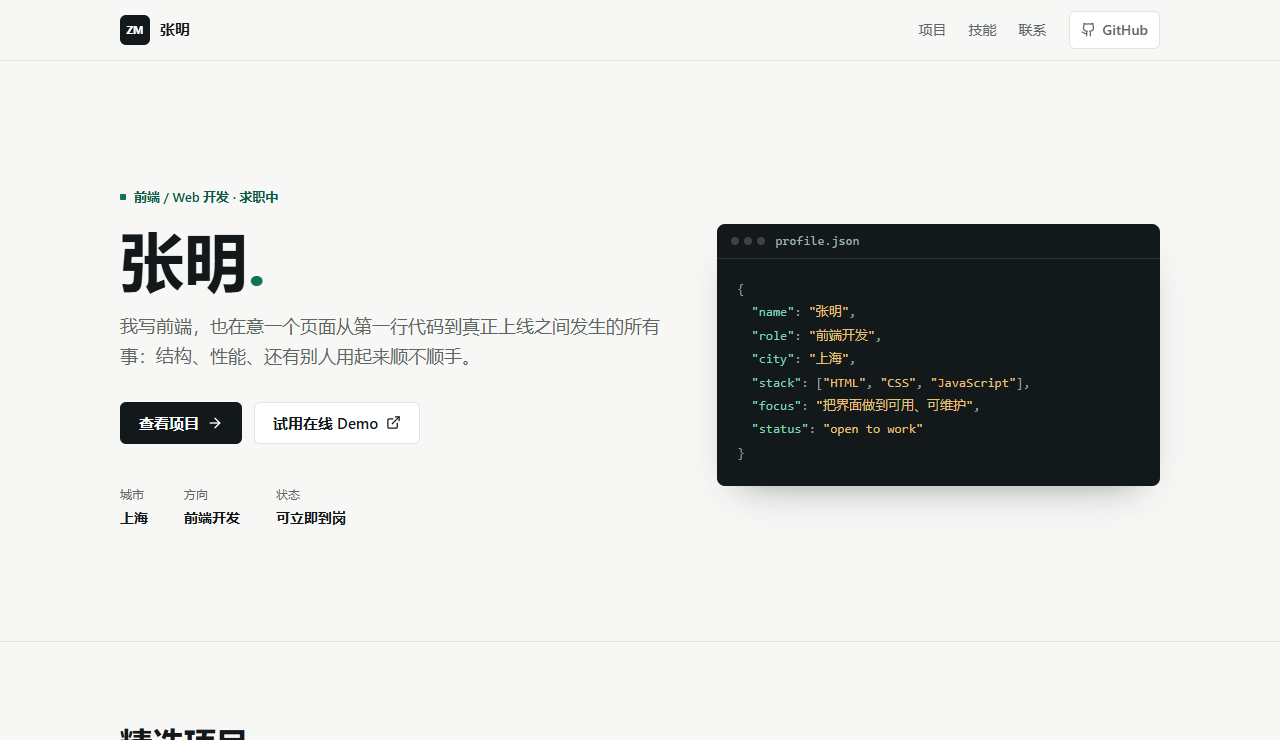
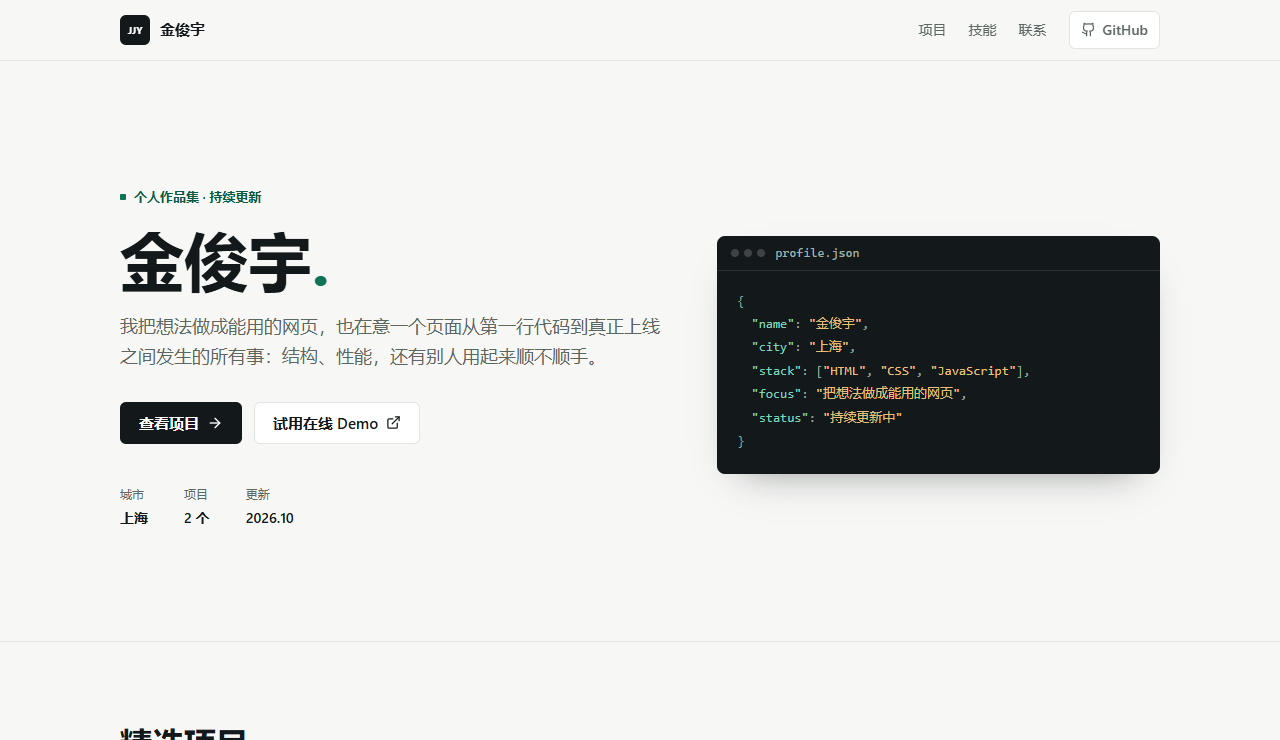
chore: replace placeholders with personal info, add live URL

diff --git a/index.html b/index.html
@@ -3,10 +3,10 @@
 <head>
   <meta charset="utf-8">
   <meta name="viewport" content="width=device-width, initial-scale=1">
-  <title>张明 · 前端开发作品集</title>
-  <meta name="description" content="张明的个人作品集：原生 JavaScript 小应用与前端实践，记录一个页面从想法到上线的过程。">
+  <title>金俊宇 · 作品集</title>
+  <meta name="description" content="金俊宇的个人作品集：原生 JavaScript 小应用与前端实践，记录一个页面从想法到上线的过程。">
   <meta name="theme-color" content="#f7f8f6">
-  <meta property="og:title" content="张明 · 前端开发作品集">
+  <meta property="og:title" content="金俊宇 · 作品集">
   <meta property="og:description" content="原生 JavaScript 小应用与前端实践。">
   <meta property="og:type" content="website">
   <link rel="icon" href="assets/favicon.svg" type="image/svg+xml">
@@ -15,18 +15,17 @@
 <body>
   <a class="skip-link" href="#main">跳到主要内容</a>
 
-  <!-- 头部：改成你的名字和 GitHub 地址 -->
   <header class="site-header">
     <div class="wrap header-inner">
       <a class="brand" href="index.html">
-        <span class="brand-mark" aria-hidden="true">ZM</span>
-        <span class="brand-name">张明</span>
+        <span class="brand-mark" aria-hidden="true">JJY</span>
+        <span class="brand-name">金俊宇</span>
       </a>
       <nav class="nav" aria-label="主导航">
         <a href="#projects">项目</a>
         <a href="#skills">技能</a>
         <a href="#contact">联系</a>
-        <a class="nav-gh" href="https://github.com/your-username" target="_blank" rel="noopener">
+        <a class="nav-gh" href="https://github.com/Milky-Rivers" target="_blank" rel="noopener">
           <svg width="15" height="15" viewBox="0 0 24 24" fill="none" stroke="currentColor" stroke-width="2" stroke-linecap="round" stroke-linejoin="round" aria-hidden="true">
             <path d="M15 22v-4a4.8 4.8 0 0 0-1-3.5c3 0 6-2 6-5.5.08-1.25-.27-2.48-1-3.5.28-1.15.28-2.35 0-3.5 0 0-1 0-3 1.5-2.64-.5-5.36-.5-8 0C6 2 5 2 5 2c-.3 1.15-.3 2.35 0 3.5A5.4 5.4 0 0 0 4 9c0 3.5 3 5.5 6 5.5-.39.49-.68 1.05-.85 1.65-.17.6-.22 1.23-.15 1.85v4"/>
             <path d="M9 18c-4.51 2-5-2-7-2"/>
@@ -41,9 +40,9 @@
     <section class="hero">
       <div class="wrap hero-grid">
         <div class="hero-copy">
-          <p class="eyebrow">前端 / Web 开发 · 求职中</p>
-          <h1>张明<span class="dot">.</span></h1>
-          <p class="lede">我写前端，也在意一个页面从第一行代码到真正上线之间发生的所有事：结构、性能、还有别人用起来顺不顺手。</p>
+          <p class="eyebrow">个人作品集 · 持续更新</p>
+          <h1>金俊宇<span class="dot">.</span></h1>
+          <p class="lede">我把想法做成能用的网页，也在意一个页面从第一行代码到真正上线之间发生的所有事：结构、性能，还有别人用起来顺不顺手。</p>
           <div class="actions">
             <a class="btn btn-primary" href="#projects">
               查看项目
@@ -56,8 +55,8 @@
           </div>
           <dl class="quick-facts">
             <div><dt>城市</dt><dd>上海</dd></div>
-            <div><dt>方向</dt><dd>前端开发</dd></div>
-            <div><dt>状态</dt><dd>可立即到岗</dd></div>
+            <div><dt>项目</dt><dd>2 个</dd></div>
+            <div><dt>更新</dt><dd>2026.10</dd></div>
           </dl>
         </div>
 
@@ -67,12 +66,11 @@
             <span>profile.json</span>
           </div>
           <pre><code><span class="p">{</span>
-  <span class="k">"name"</span><span class="p">:</span> <span class="s">"张明"</span><span class="p">,</span>
-  <span class="k">"role"</span><span class="p">:</span> <span class="s">"前端开发"</span><span class="p">,</span>
+  <span class="k">"name"</span><span class="p">:</span> <span class="s">"金俊宇"</span><span class="p">,</span>
   <span class="k">"city"</span><span class="p">:</span> <span class="s">"上海"</span><span class="p">,</span>
   <span class="k">"stack"</span><span class="p">:</span> <span class="p">[</span><span class="s">"HTML"</span><span class="p">,</span> <span class="s">"CSS"</span><span class="p">,</span> <span class="s">"JavaScript"</span><span class="p">],</span>
-  <span class="k">"focus"</span><span class="p">:</span> <span class="s">"把界面做到可用、可维护"</span><span class="p">,</span>
-  <span class="k">"status"</span><span class="p">:</span> <span class="s">"open to work"</span>
+  <span class="k">"focus"</span><span class="p">:</span> <span class="s">"把想法做成能用的网页"</span><span class="p">,</span>
+  <span class="k">"status"</span><span class="p">:</span> <span class="s">"持续更新中"</span>
 <span class="p">}</span></code></pre>
         </aside>
       </div>
@@ -88,7 +86,7 @@
         <div class="project-grid">
           <article class="project">
             <a class="thumb" href="demo.html" aria-label="打开任务清单 Demo">
-              <img src="assets/demo-shot.png" alt="任务清单 Demo 的界面截图" width="1280" height="800" loading="lazy">
+              <img src="assets/demo-shot.png" alt="任务清单 Demo 的界面截图" width="1280" height="800">
             </a>
             <div class="project-body">
               <h3>任务清单 <span class="badge">可直接试用</span></h3>
@@ -98,7 +96,7 @@
                 <a href="demo.html">打开 Demo
                   <svg width="14" height="14" viewBox="0 0 24 24" fill="none" stroke="currentColor" stroke-width="2" stroke-linecap="round" stroke-linejoin="round" aria-hidden="true"><path d="M5 12h14"/><path d="m12 5 7 7-7 7"/></svg>
                 </a>
-                <a href="https://github.com/your-username/my-portfolio" target="_blank" rel="noopener">源码</a>
+                <a href="https://github.com/Milky-Rivers/my-portfolio" target="_blank" rel="noopener">源码</a>
               </div>
             </div>
           </article>
@@ -115,7 +113,7 @@
                 <a href="index.html">打开首页
                   <svg width="14" height="14" viewBox="0 0 24 24" fill="none" stroke="currentColor" stroke-width="2" stroke-linecap="round" stroke-linejoin="round" aria-hidden="true"><path d="M5 12h14"/><path d="m12 5 7 7-7 7"/></svg>
                 </a>
-                <a href="https://github.com/your-username/my-portfolio" target="_blank" rel="noopener">源码</a>
+                <a href="https://github.com/Milky-Rivers/my-portfolio" target="_blank" rel="noopener">源码</a>
               </div>
             </div>
           </article>
@@ -165,19 +163,19 @@
       <div class="wrap contact-grid">
         <div>
           <h2>聊聊？</h2>
-          <p>如果你在找一名愿意把细节做好的开发者，欢迎发邮件。</p>
+          <p>项目都在 GitHub 上，欢迎来看代码，或者直接开个 Issue。</p>
           <div class="email-row">
-            <a class="email" href="mailto:zm@example.com">zm@example.com</a>
-            <button class="copy-btn" id="copyEmail" type="button" data-email="zm@example.com">
+            <a class="email" href="https://github.com/Milky-Rivers" target="_blank" rel="noopener">github.com/Milky-Rivers</a>
+            <button class="copy-btn" id="copyEmail" type="button" data-copy="https://github.com/Milky-Rivers">
               <svg width="15" height="15" viewBox="0 0 24 24" fill="none" stroke="currentColor" stroke-width="2" stroke-linecap="round" stroke-linejoin="round" aria-hidden="true"><rect width="14" height="14" x="8" y="8" rx="2"/><path d="M4 16c-1.1 0-2-.9-2-2V4c0-1.1.9-2 2-2h10c1.1 0 2 .9 2 2"/></svg>
               <span>复制</span>
             </button>
           </div>
         </div>
         <ul class="contact-list">
-          <li><span>GitHub</span><a href="https://github.com/your-username" target="_blank" rel="noopener">github.com/your-username</a></li>
-          <li><span>微信</span><em>加我请先发邮件</em></li>
-          <li><span>位置</span><em>上海 · 可远程</em></li>
+          <li><span>GitHub</span><a href="https://github.com/Milky-Rivers" target="_blank" rel="noopener">github.com/Milky-Rivers</a></li>
+          <li><span>位置</span><em>上海</em></li>
+          <li><span>状态</span><em>持续更新中</em></li>
         </ul>
       </div>
     </section>
@@ -185,7 +183,7 @@
 
   <footer class="site-footer">
     <div class="wrap footer-inner">
-      <p>© <span id="year">2026</span> 张明</p>
+      <p>© <span id="year">2026</span> 金俊宇</p>
       <p>原生 HTML / CSS / JavaScript 写成，托管在 GitHub Pages</p>
     </div>
   </footer>

diff --git a/demo.html b/demo.html
@@ -3,7 +3,7 @@
 <head>
   <meta charset="utf-8">
   <meta name="viewport" content="width=device-width, initial-scale=1">
-  <title>任务清单 · 张明的作品集</title>
+  <title>任务清单 · 金俊宇的作品集</title>
   <meta name="description" content="原生 JavaScript 实现的任务清单：添加、勾选、筛选、删除，数据保存在浏览器本地。">
   <meta name="theme-color" content="#f7f8f6">
   <link rel="icon" href="assets/favicon.svg" type="image/svg+xml">
@@ -15,13 +15,13 @@
   <header class="site-header">
     <div class="wrap header-inner">
       <a class="brand" href="index.html">
-        <span class="brand-mark" aria-hidden="true">ZM</span>
-        <span class="brand-name">张明</span>
+        <span class="brand-mark" aria-hidden="true">JJY</span>
+        <span class="brand-name">金俊宇</span>
       </a>
       <nav class="nav" aria-label="主导航">
         <a href="index.html">作品集</a>
         <a href="index.html#skills">技能</a>
-        <a class="nav-gh" href="https://github.com/your-username" target="_blank" rel="noopener">
+        <a class="nav-gh" href="https://github.com/Milky-Rivers" target="_blank" rel="noopener">
           <svg width="15" height="15" viewBox="0 0 24 24" fill="none" stroke="currentColor" stroke-width="2" stroke-linecap="round" stroke-linejoin="round" aria-hidden="true">
             <path d="M15 22v-4a4.8 4.8 0 0 0-1-3.5c3 0 6-2 6-5.5.08-1.25-.27-2.48-1-3.5.28-1.15.28-2.35 0-3.5 0 0-1 0-3 1.5-2.64-.5-5.36-.5-8 0C6 2 5 2 5 2c-.3 1.15-.3 2.35 0 3.5A5.4 5.4 0 0 0 4 9c0 3.5 3 5.5 6 5.5-.39.49-.68 1.05-.85 1.65-.17.6-.22 1.23-.15 1.85v4"/>
             <path d="M9 18c-4.51 2-5-2-7-2"/>
@@ -76,7 +76,7 @@
 
   <footer class="site-footer">
     <div class="wrap footer-inner">
-      <p>© <span id="year">2026</span> 张明</p>
+      <p>© <span id="year">2026</span> 金俊宇</p>
       <p>原生 HTML / CSS / JavaScript 写成，托管在 GitHub Pages</p>
     </div>
   </footer>

diff --git a/main.js b/main.js
@@ -1,4 +1,4 @@
-// 站点的小交互：年份、复制邮箱
+// 站点的小交互：年份、复制链接
 const yearEl = document.querySelector("#year");
 if (yearEl) yearEl.textContent = String(new Date().getFullYear());
 
@@ -8,13 +8,13 @@ if (copyBtn) {
   const original = label.textContent;
 
   copyBtn.addEventListener("click", async () => {
-    const email = copyBtn.dataset.email;
+    const text = copyBtn.dataset.copy;
     try {
-      await navigator.clipboard.writeText(email);
+      await navigator.clipboard.writeText(text);
     } catch {
       // 某些环境（如 file://）没有剪贴板权限，退回旧接口
       const input = document.createElement("input");
-      input.value = email;
+      input.value = text;
       document.body.appendChild(input);
       input.select();
       document.execCommand("copy");

diff --git a/styles.css b/styles.css
@@ -108,7 +108,7 @@ img { max-width: 100%; }
   border-radius: 6px;
   background: var(--ink);
   color: #fff;
-  font-size: 11px;
+  font-size: 10px;
   font-weight: 700;
   letter-spacing: 0;
 }
@@ -433,7 +433,7 @@ h1 {
 
 .email {
   color: #fff;
-  font-size: 26px;
+  font-size: 24px;
   font-weight: 600;
   border-bottom: 1px solid rgba(255, 255, 255, 0.35);
   padding-bottom: 2px;

diff --git a/README.md b/README.md
@@ -2,7 +2,8 @@
 
 一个零依赖、零构建的静态站点，包含个人介绍页和一个可直接使用的任务清单小应用。
 
-- 线上地址：`https://你的用户名.github.io/my-portfolio/`（部署后替换）
+- 线上地址：https://milky-rivers.github.io/my-portfolio/
+- 源码地址：https://github.com/Milky-Rivers/my-portfolio
 - 技术栈：HTML / CSS / 原生 JavaScript，部署在 GitHub Pages
 
 ## 目录结构
@@ -29,12 +30,10 @@ python -m http.server 8000
 
 | 占位内容 | 换成 |
 | --- | --- |
-| `张明` | 你的名字 |
-| `ZM` | 你的名字缩写 |
-| `your-username` | 你的 GitHub 用户名 |
-| `zm@example.com` | 你的邮箱 |
+| `金俊宇` | 你的名字 |
+| `JJY` | 你的名字缩写 |
+| `Milky-Rivers` | 你的 GitHub 用户名 |
 | `上海` | 你所在的城市 |
-| `前端开发` | 你的求职方向 |
 
 替换方式：用编辑器的全局搜索替换（VS Code 里按 `Ctrl+Shift+H`），把上表里的占位内容逐个换掉。
 
